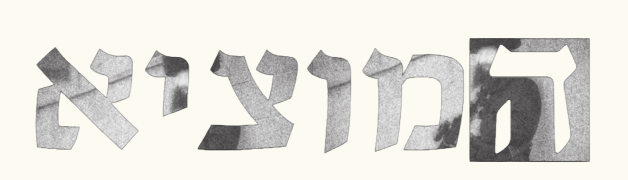
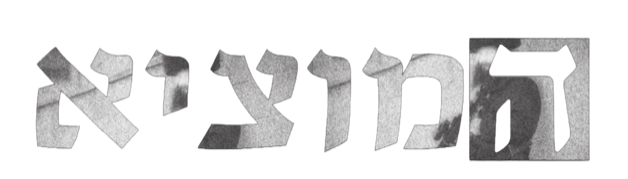
Phone version: Davar Echad; the top links on one line on every page
- Davar Echad on the phone: the brand video, the brand values, the arrows, the posters on black,
  the mockups grid with the news subjects running along, and the logo at the end.
- The three top links on every project page on one line, 42 from the top; "Cool stuff by Yael Lenga"
  on the home page on the same line.
- Home on the phone: the Hamotzi logo as light as in Figma; the halves that come in on a tap
  no longer show the project's name, type and year.

diff --git a/styles.css b/styles.css
@@ -1693,13 +1693,13 @@ a:focus-visible .roll-in .roll-letter,
   color: var(--color-hero-text);
 }
 .phone-handwriting a { color: inherit; text-decoration: none; }
-.phone-cool-stuff { --x: 85; --y: 16; }
+.phone-cool-stuff { --x: 85; --y: 40; } /* the bottom of its letters on the same line as "More Cool Stuff" on the project pages (16 in Figma) */
 .phone-cool-stuff a {
   text-decoration: underline;
   text-decoration-thickness: from-font;
   text-underline-position: from-font;
 }
-.phone-my-name { --x: 173; --y: 18; --width: 143; }
+.phone-my-name { --x: 173; --y: 40; --width: 143; } /* on the same line too (18 in Figma) */
 
 /* The text about me under them: orange capitals */
 .phone-intro {
@@ -1731,8 +1731,7 @@ a:focus-visible .roll-in .roll-letter,
   max-width: none;
 }
 .phone-picture-lets-talk { --x: 52;    --y: 74; --width: 94;  --height: 94; }
-.phone-picture-hamotzi   { --x: 20;    --y: 98; --width: 157; --height: 45;
-                           filter: invert(1) contrast(1.1); } /* the logo's photo, light on dark, as in Figma */
+.phone-picture-hamotzi   { --x: 20;    --y: 98; --width: 157; --height: 45; }
 .phone-picture-davar     { --x: 58.63; --y: 58; --width: 139; --height: 137; }
 .phone-picture-trac      { --x: 65;    --y: 76; --width: 67;  --height: 100; }
 
@@ -1809,6 +1808,9 @@ a:focus-visible .roll-in .roll-letter,
   width: calc(720 * var(--u));
 }
 .phone-sweep-left  { left: 0; }
+/* On the phone, the halves come without the project's name, type and year (the small text at the bottom right) */
+.phone-sweep-half .project-label,
+.phone-sweep-half .project-year { display: none; }
 .phone-sweep-right {                     /* half a pixel wider, over the left half, so no thin line shows where they meet */
   right: 0;
   width: calc(720 * var(--u) + 0.5px);
@@ -1902,7 +1904,7 @@ a:focus-visible .roll-in .roll-letter,
   --phone-project-color: var(--color-trac-orange);
 }
 .trac-phone-more  { --x: 25;  --y: 42; --width: 90; } /* wider than in Figma (70), so it is never more than two lines */
-.trac-phone-next  { --x: 150; --y: 59; --width: 94; }
+.trac-phone-next  { --x: 150; --y: 42; --width: 94; } /* on every project page the three links are on one line, at 42 */
 .trac-phone-about { --x: 311; --y: 42; --width: 57; }
 .trac-phone        { --phone-nav-height: 95; }
 
@@ -2016,7 +2018,7 @@ a:focus-visible .roll-in .roll-letter,
   --phone-project-color: var(--color-home-orange);
 }
 .lets-talk-phone-more  { --x: 25;  --y: 42; --width: 90; } /* wider than in Figma (70), so it is never more than two lines */
-.lets-talk-phone-next  { --x: 150; --y: 56; --width: 94; }
+.lets-talk-phone-next  { --x: 150; --y: 42; --width: 94; } /* the three links on one line, at 42 */
 .lets-talk-phone-about { --x: 311; --y: 42; --width: 57; }
 
 .lets-talk-phone-details { --x: 25;  --y: 112; --width: 160; }
@@ -2055,9 +2057,9 @@ a:focus-visible .roll-in .roll-letter,
   --phone-nav-height: 95;
   --phone-project-color: var(--color-home-orange);
 }
-.hamotzi-phone-more  { --x: 25;  --y: 19; --width: 90; } /* wider than in Figma (70), so it is never more than two lines */
-.hamotzi-phone-next  { --x: 150; --y: 19; --width: 94; }
-.hamotzi-phone-about { --x: 311; --y: 19; --width: 57; }
+.hamotzi-phone-more  { --x: 25;  --y: 42; --width: 90; } /* wider than in Figma (70), so it is never more than two lines */
+.hamotzi-phone-next  { --x: 150; --y: 42; --width: 94; } /* the three links on one line, at 42 (19 in Figma) */
+.hamotzi-phone-about { --x: 311; --y: 42; --width: 57; }
 
 .hamotzi-phone-details { --x: 25;  --y: 112; --width: 170; }
 .hamotzi-phone-logo    { --x: 209; --y: 110; --width: 169; --height: 36.147; }
@@ -2075,6 +2077,52 @@ a:focus-visible .roll-in .roll-letter,
 .hamotzi-phone-video-spot .hamotzi-video { height: 100%; aspect-ratio: auto; }
 
 .hamotzi-phone-text { --x: 25; --y: 468; --width: 339; } /* 460 in Figma, 8 lower */
+
+/* ---------- Davar Echad on the phone (Figma: "davar phone") ---------- */
+.davar-phone {
+  --phone-page-height: 2124;
+  --phone-nav-height: 95;
+  --phone-project-color: var(--color-home-orange);
+}
+.davar-phone-more  { --x: 25;  --y: 42; --width: 90; } /* wider than in Figma (70), so it is never more than two lines */
+.davar-phone-next  { --x: 150; --y: 42; --width: 94; }
+.davar-phone-about { --x: 311; --y: 42; --width: 57; }
+
+.davar-phone-details { --x: 25;  --y: 112; --width: 170; }
+.davar-phone-logo    { --x: 275; --y: 112; --width: 93; --height: 64.2; }
+.davar-phone-video   { --x: 0;   --y: 201; --width: 393; --height: 221; }
+.davar-phone-video .project-video { object-fit: cover; }
+
+.davar-phone-intro        { --x: 25;  --y: 460; --width: 339; }
+.davar-phone-values-title { --x: 25;  --y: 718; --width: 150; }
+.davar-phone-values       { --x: 150; --y: 676; --width: 230; --height: 244; }
+
+.davar-phone-comp         { --x: 0; --y: 906;  --width: 393; --height: 221; object-fit: cover; }
+.davar-phone-posters      { --x: 0; --y: 1166; --width: 393; --height: 181; }
+.davar-phone-grid         { --x: 0; --y: 1340; --width: 393; --height: 625; }
+.davar-phone-footer-logo  { --x: 164; --y: 2014; --width: 65; --height: 47; }
+
+/* The news subjects strip: the component is 3621 wide and shown at 623.47 here (×0.17218);
+   like on the computer it moves left by 1203 of its units in 9 seconds, and starts again */
+.davar-phone-ticker {
+  position: absolute;
+  left: calc(-2.396 * var(--u));
+  top: calc(1356.44 * var(--u));
+  width: calc(623.47 * var(--u));
+  height: calc(6.371 * var(--u));
+}
+.davar-phone-ticker img {
+  display: block;
+  width: 100%;
+  height: 100%;
+  animation: davar-phone-ticker 9s linear infinite;
+}
+@keyframes davar-phone-ticker {
+  to { transform: translateX(calc(-207.13 * var(--u))); } /* 1203 × 0.17218 */
+}
+@media (prefers-reduced-motion: reduce) {
+  .davar-phone-ticker img { animation: none; }
+}
 
 /* =========================================================
    About page (about.html): one screen, drawn 1440 × 785, that stays in place.

diff --git a/davar-echad.html b/davar-echad.html
@@ -104,6 +104,55 @@
     </div>
   </main>
 
+  <!-- PHONE (screen held upright): one column, from the Figma frame "davar phone" (393 wide).
+       The computer version above is hidden on the phone, and this is hidden on the computer. -->
+  <div class="phone-project davar-phone">
+
+    <!-- At the top of the screen all the time, on a cream bar -->
+    <nav class="phone-project-nav" aria-label="Pages">
+      <div class="phone-nav-background"></div> <!-- cream, behind the links, so the page scrolls under it -->
+      <a class="placed phone-nav-link davar-phone-more" href="index.html">More Cool<br>Stuff</a>
+      <a class="placed phone-nav-link davar-phone-next" href="trac.html">Next Project</a>
+      <a class="placed phone-nav-link davar-phone-about" href="about.html">About&amp;<br>Contact</a>
+    </nav>
+
+    <!-- The details, and the logo next to them -->
+    <p class="placed phone-details davar-phone-details">davar echad<br>branding<br>student project<br>2026</p>
+    <h1 class="placed box davar-phone-logo"><img class="whole-image" src="images/davar-logo.png" alt="Davar Echad — דבר אחד"></h1>
+
+    <!-- The brand video, as wide as the screen; it starts playing when it comes into the window (play-when-seen.js) -->
+    <div class="placed box davar-phone-video">
+      <video class="project-video" src="images/davar-brand-video.mp4" poster="images/davar-brand-video-poster.jpg"
+             muted loop playsinline preload="metadata" data-play-when-seen
+             aria-label="The Davar Echad brand video"></video>
+    </div>
+
+    <div class="placed phone-text davar-phone-intro">
+      <p>Rebranding the historic Israeli workers’ newspaper ‘Davar’.</p>
+      <p>Davar Echad is a contemporary news rebrand designed to make current events more accessible and less overwhelming. By curating one key headline from each major news category, the brand delivers quick, digestible updates that help people stay informed, feel connected, and confidently join everyday conversations.</p>
+    </div>
+
+    <!-- The brand's values, in the brand's font (a drawing, as the font isn't on the web) -->
+    <p class="placed phone-text davar-phone-values-title">brand values:</p>
+    <img class="placed box davar-phone-values" src="images/davar-phone-values.svg" lang="he" alt="מהיר, נגיש, חברתי — quick, accessible, social">
+
+    <!-- The arrows animation from the brand (in Figma a video, "Comp 1_2"; for now a still from it) -->
+    <img class="placed box davar-phone-comp" src="images/davar-phone-comp-poster.jpg" alt="The brand's arrows in its colors, with the news subjects">
+
+    <!-- Three posters on black -->
+    <img class="placed box davar-phone-posters" src="images/davar-phone-posters.jpg" alt="Three posters of the brand: speech bubbles and arrows in the brand's colors">
+
+    <!-- The brand in use: newspapers, a stand, a laptop, a phone, a billboard in the subway, tape and a truck,
+         in a grid of thin lines -->
+    <img class="placed box davar-phone-grid" src="images/davar-phone-grid.jpg" alt="The brand in use: a stack of newspapers, the newspaper, a laptop and a phone with the brand, a billboard in the subway, printed tape and a truck">
+
+    <!-- The news subjects running along, over the grid's top lines (the same strip and speed as on the computer) -->
+    <div class="davar-phone-ticker" aria-hidden="true"><img src="images/davar-anim-ticker.svg" alt=""></div>
+
+    <!-- The logo at the end -->
+    <img class="placed box davar-phone-footer-logo" src="images/davar-phone-footer-logo.svg" alt="">
+  </div>
+
   <script src="letter-roll.js"></script>
   <script src="play-when-seen.js"></script>
   <script src="nav-slide.js"></script>

diff --git a/styleguide.html b/styleguide.html
@@ -73,7 +73,7 @@
       <div class="guide-group">
         <p class="project-bold-text">Project pages</p>
         <ul class="project-text guide-rules">
-          <li>At the top: "More Cool Stuff", "Next Project" (to the next project in the list) and "About&amp; Contact". They stay at the top of the screen, on a cream bar (.phone-nav-background, 95 tall), so the page scrolls under it.</li>
+          <li>At the top: "More Cool Stuff", "Next Project" (to the next project in the list) and "About&amp; Contact". On every project page they are on one line, 42 from the top (and "Cool stuff by Yael Lenga" on the home page is on the same line). They stay at the top of the screen, on a cream bar (.phone-nav-background, 95 tall), so the page scrolls under it.</li>
           <li>"More Cool Stuff" and "About&amp; Contact" are two lines at most.</li>
           <li>The links at the bottom (prototype, website, presentation…) scroll with the page and open in a new tab.</li>
           <li>Colored folders (.phone-folder): corners rounded 4, with a cream tab cut-out over the top-left corner, stacked in the order of the Figma layers.</li>
